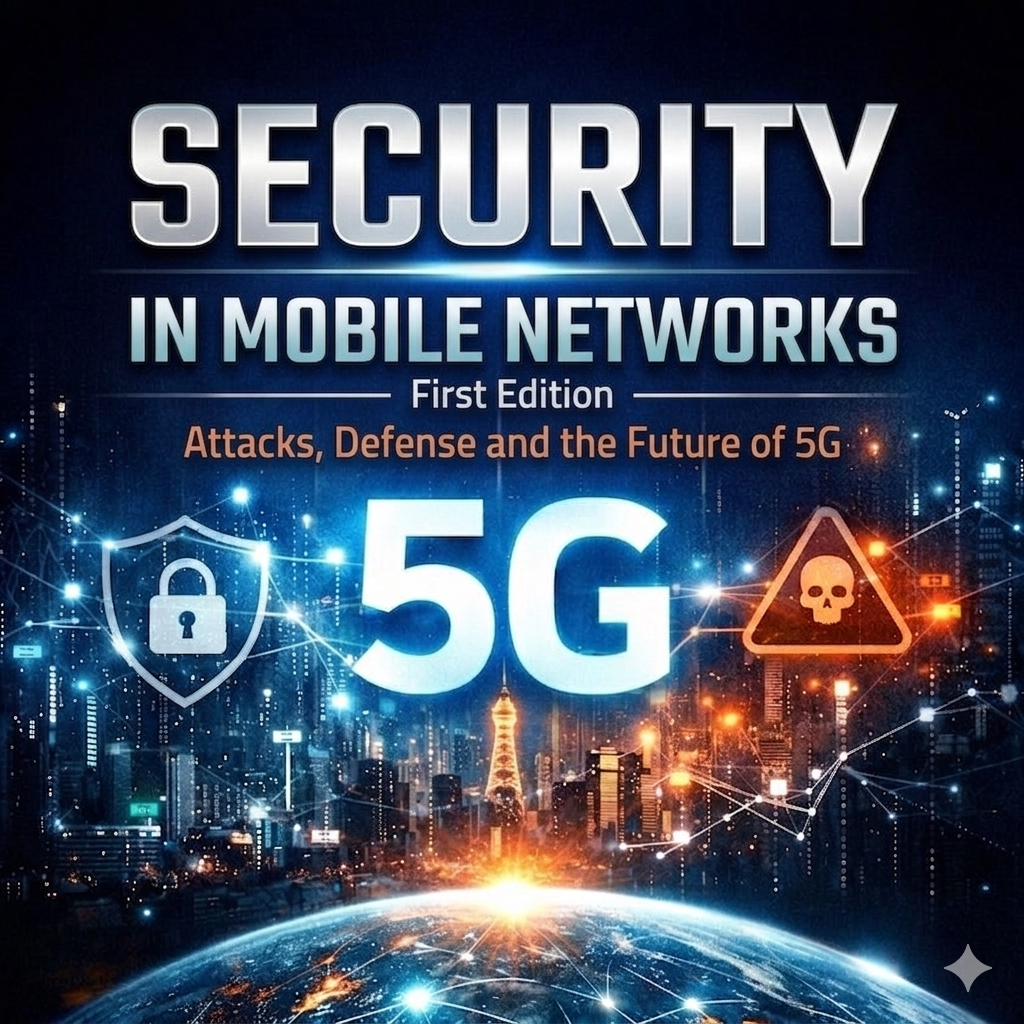
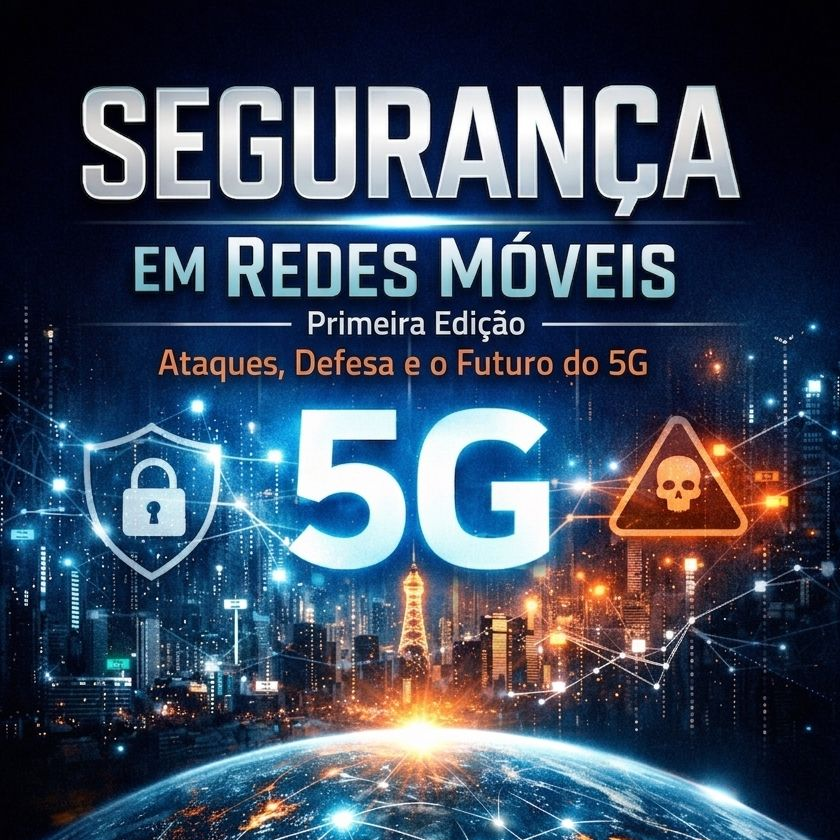
fix: restore stable version with fallback files
fix: restore stable version with fallback files

diff --git a/index.html b/index.html
@@ -1,26 +1,132 @@
+
+<!DOCTYPE html>
+<html lang="pt-BR">
+<head>
+<meta charset="UTF-8" />
+<meta name="viewport" content="width=device-width, initial-scale=1" />
+<title>Índice – Segurança em Redes Móveis</title>
+
+<link rel="stylesheet" href="style.css">
+<link rel="manifest" href="manifest.json">
+
+<meta name="theme-color" content="#000000">
+
 <script>
-(function () {
-
-  // 1. PRIORIDADE MÁXIMA: URL manual
-  const params = new URLSearchParams(window.location.search);
-  const forced = params.get("lang");
-
-  if (forced === "pt") {
-    return window.location.replace("./br/");
-  }
-  if (forced === "en") {
-    return window.location.replace("./en/");
-  }
-
-  // 2. DETECÇÃO AUTOMÁTICA DO NAVEGADOR
-  const lang = (navigator.language || "").toLowerCase();
-
-  const isPT = lang.startsWith("pt");
-
-  // 3. DEFAULT GLOBAL (anônimo ou qualquer outro caso)
-  const target = isPT ? "./br/" : "./en/";
-
-  window.location.replace(target);
-
-})();
+if ('serviceWorker' in navigator) {
+  navigator.serviceWorker.register('sw.js');
+}
 </script>
+
+</head>
+
+<body>
+
+<!-- SIDEBAR -->
+<div class="sidebar">
+  <div class="sidebar-inner">
+
+    <h1>📡 Segurança em Redes Móveis: Ataques, Defesa e o Futuro do 5G</h1>
+    <h1>📘 Índice</h1>
+
+    <div class="bloco">🔵 Fundamentos (Cap.1–2)</div>
+    <a href="#" data-page="cap01.html">Capítulo 1: Conceitos Básicos de Redes Móveis</a>
+    <a href="#" data-page="cap02.html">Capítulo 2: Segurança em Redes Móveis: Fundamentos e Modelo de Confiança</a>
+
+    <div class="bloco">🔴 Ataques (Cap.3–5)</div>
+    <a href="#" data-page="cap03.html">Capítulo 3: Anatomia dos Ataques em Redes Móveis (Kill Chain)</a>
+    <a href="#" data-page="cap04.html">Capítulo 4: Superfície de Ataque em Redes Móveis</a>
+    <a href="#" data-page="cap05.html">Capítulo 5: Casos Reais e Incidentes em Operadoras</a>
+
+    <div class="bloco">🟠 Protocolos (Cap.6–8)</div>
+    <a href="#" data-page="cap06.html">Capítulo 6: SS7: Arquitetura e Vulnerabilidades</a>
+    <a href="#" data-page="cap07.html">Capítulo 7: Diameter em Redes 4G (LTE) na Prática</a>
+    <a href="#" data-page="cap08.html">Capítulo 8: Segurança no 5G: Service-Based Architecture (SBA)</a>
+
+    <div class="bloco">🛡️ Defesa (Cap.9–10)</div>
+    <a href="#" data-page="cap09.html">Capítulo 9: Arquitetura de Defesa em Redes Móveis</a>
+    <a href="#" data-page="cap10.html">Capítulo 10: Monitoramento, Detecção e Resposta a Ameaças</a>
+
+    <div class="bloco">⚔️ Ataque Avançado (Cap.11–12)</div>
+    <a href="#" data-page="cap11.html">Capítulo 11: Técnicas de Evasão em Redes Móveis</a>
+    <a href="#" data-page="cap12.html">Capítulo 12: Tooling e Engenharia de Ataques em Telecom</a>
+
+    <div class="bloco">💼 Negócio (Cap.13)</div>
+    <a href="#" data-page="cap13.html">Capítulo 13: Impacto de Segurança no Negócio e Regulatório</a>
+
+    <div class="bloco">🔮 Futuro (Cap.14)</div>
+    <a href="#" data-page="cap14.html">Capítulo 14: Futuro da Segurança em Redes Móveis (5G Advanced e além)</a>
+
+    <footer style="margin-top:30px; opacity:0.85;">
+      <p>📘 Fim do livro.</p>
+    </footer>
+
+  </div>
+</div>
+
+<!-- CONTEÚDO (MEIO) -->
+<div class="content" id="content">
+  <h2>📘 Bem-vindo!</h2>
+  <p>Selecione um capítulo no índice para ler aqui.</p>
+</div>
+
+<!-- CAPA (DIREITA) -->
+<div class="cover">
+
+  <div style="text-align:center;">
+    <img src="capa.jpg" alt="Capa do livro">
+   
+    <footer style="margin-top:30px; opacity:0.85;">
+      <p>📘 Pedro Helden, 2026</p>
+    </footer>
+    <p>
+      🔗 
+      <a href="https://www.linkedin.com/in/pedrohelden"
+         target="_blank"
+         style="color:#60a5fa; text-decoration:none;">
+        linkedin.com/in/pedrohelden
+      </a>
+    </p>
+
+  </div>
+</div>
+
+<script>
+document.addEventListener("DOMContentLoaded", () => {
+
+  document.querySelector(".sidebar").addEventListener("click", (e) => {
+    const link = e.target.closest("a[data-page]");
+    if (!link) return;
+
+    e.preventDefault(); // <- ISSO AQUI É O QUE FALTAVA
+
+    const page = link.getAttribute("data-page");
+    loadChapter(page);
+  });
+
+});
+
+async function loadChapter(page) {
+  try {
+    const res = await fetch(page);
+    if (!res.ok) throw new Error("HTTP " + res.status);
+
+    const html = await res.text();
+
+    const temp = document.createElement("div");
+    temp.innerHTML = html;
+
+    const body = temp.querySelector("body");
+    const content = body ? body.innerHTML : temp.innerHTML;
+
+    document.getElementById("content").innerHTML = content;
+
+  } catch (err) {
+    console.error(err);
+    document.getElementById("content").innerHTML =
+      "<h2>Erro ao carregar capítulo</h2><p>" + page + "</p>";
+  }
+}
+</script>
+
+</body>
+</html>

diff --git a/sw.js b/sw.js
@@ -1,29 +1,42 @@
-const CACHE_NAME = "ebook-cache-v5";
+const CACHE_NAME = "ebook-cache-v2"; // 👈 MUDE ISSO A CADA UPDATE
 
-// versao com suporte multi-language
-// arquivos essenciais (shell do app)
-const CORE_FILES = [
+const urlsToCache = [
   "./",
-  "/br/",
-  "/en/",
-  "/style.css",
-  "/capa.jpg",
-  "/icon.png",
-  "/manifest.json"
+  "index.html",
+  "style.css",
+
+  "cap01.html",
+  "cap02.html",
+  "cap03.html",
+  "cap04.html",
+  "cap05.html",
+  "cap06.html",
+  "cap07.html",
+  "cap08.html",
+  "cap09.html",
+  "cap10.html",
+  "cap11.html",
+  "cap12.html",
+  "cap13.html",
+  "cap14.html",
+
+  "capa.jpg",
+  "manifest.json",
+  "icon.png"
 ];
 
-// INSTALL
+// 🔥 INSTALA E FORÇA NOVA VERSÃO
 self.addEventListener("install", (event) => {
-  self.skipWaiting();
+  self.skipWaiting(); // ativa nova versão imediatamente
 
   event.waitUntil(
     caches.open(CACHE_NAME).then((cache) => {
-      return cache.addAll(CORE_FILES);
+      return cache.addAll(urlsToCache);
     })
   );
 });
 
-// ACTIVATE (remove cache antigo automaticamente)
+// 🔥 LIMPA CACHE ANTIGO AUTOMATICAMENTE
 self.addEventListener("activate", (event) => {
   event.waitUntil(
     Promise.all([
@@ -36,30 +49,30 @@ self.addEventListener("activate", (event) => {
           })
         )
       ),
-      self.clients.claim()
+      self.clients.claim() // assume controle imediato
     ])
   );
 });
 
-// FETCH (network-first + fallback offline)
+// 🔥 ESTRATÉGIA INTELIGENTE DE CACHE
 self.addEventListener("fetch", (event) => {
   const req = event.request;
-  const url = new URL(req.url);
-
-  // ignora requests externos
-  if (url.origin !== self.location.origin) return;
 
   event.respondWith(
     fetch(req)
       .then((res) => {
-        const clone = res.clone();
+        // atualiza cache em background
+        const resClone = res.clone();
 
         caches.open(CACHE_NAME).then((cache) => {
-          cache.put(req, clone);
+          cache.put(req, resClone);
         });
 
         return res;
       })
-      .catch(() => caches.match(req))
+      .catch(() => {
+        // fallback offline
+        return caches.match(req);
+      })
   );
 });